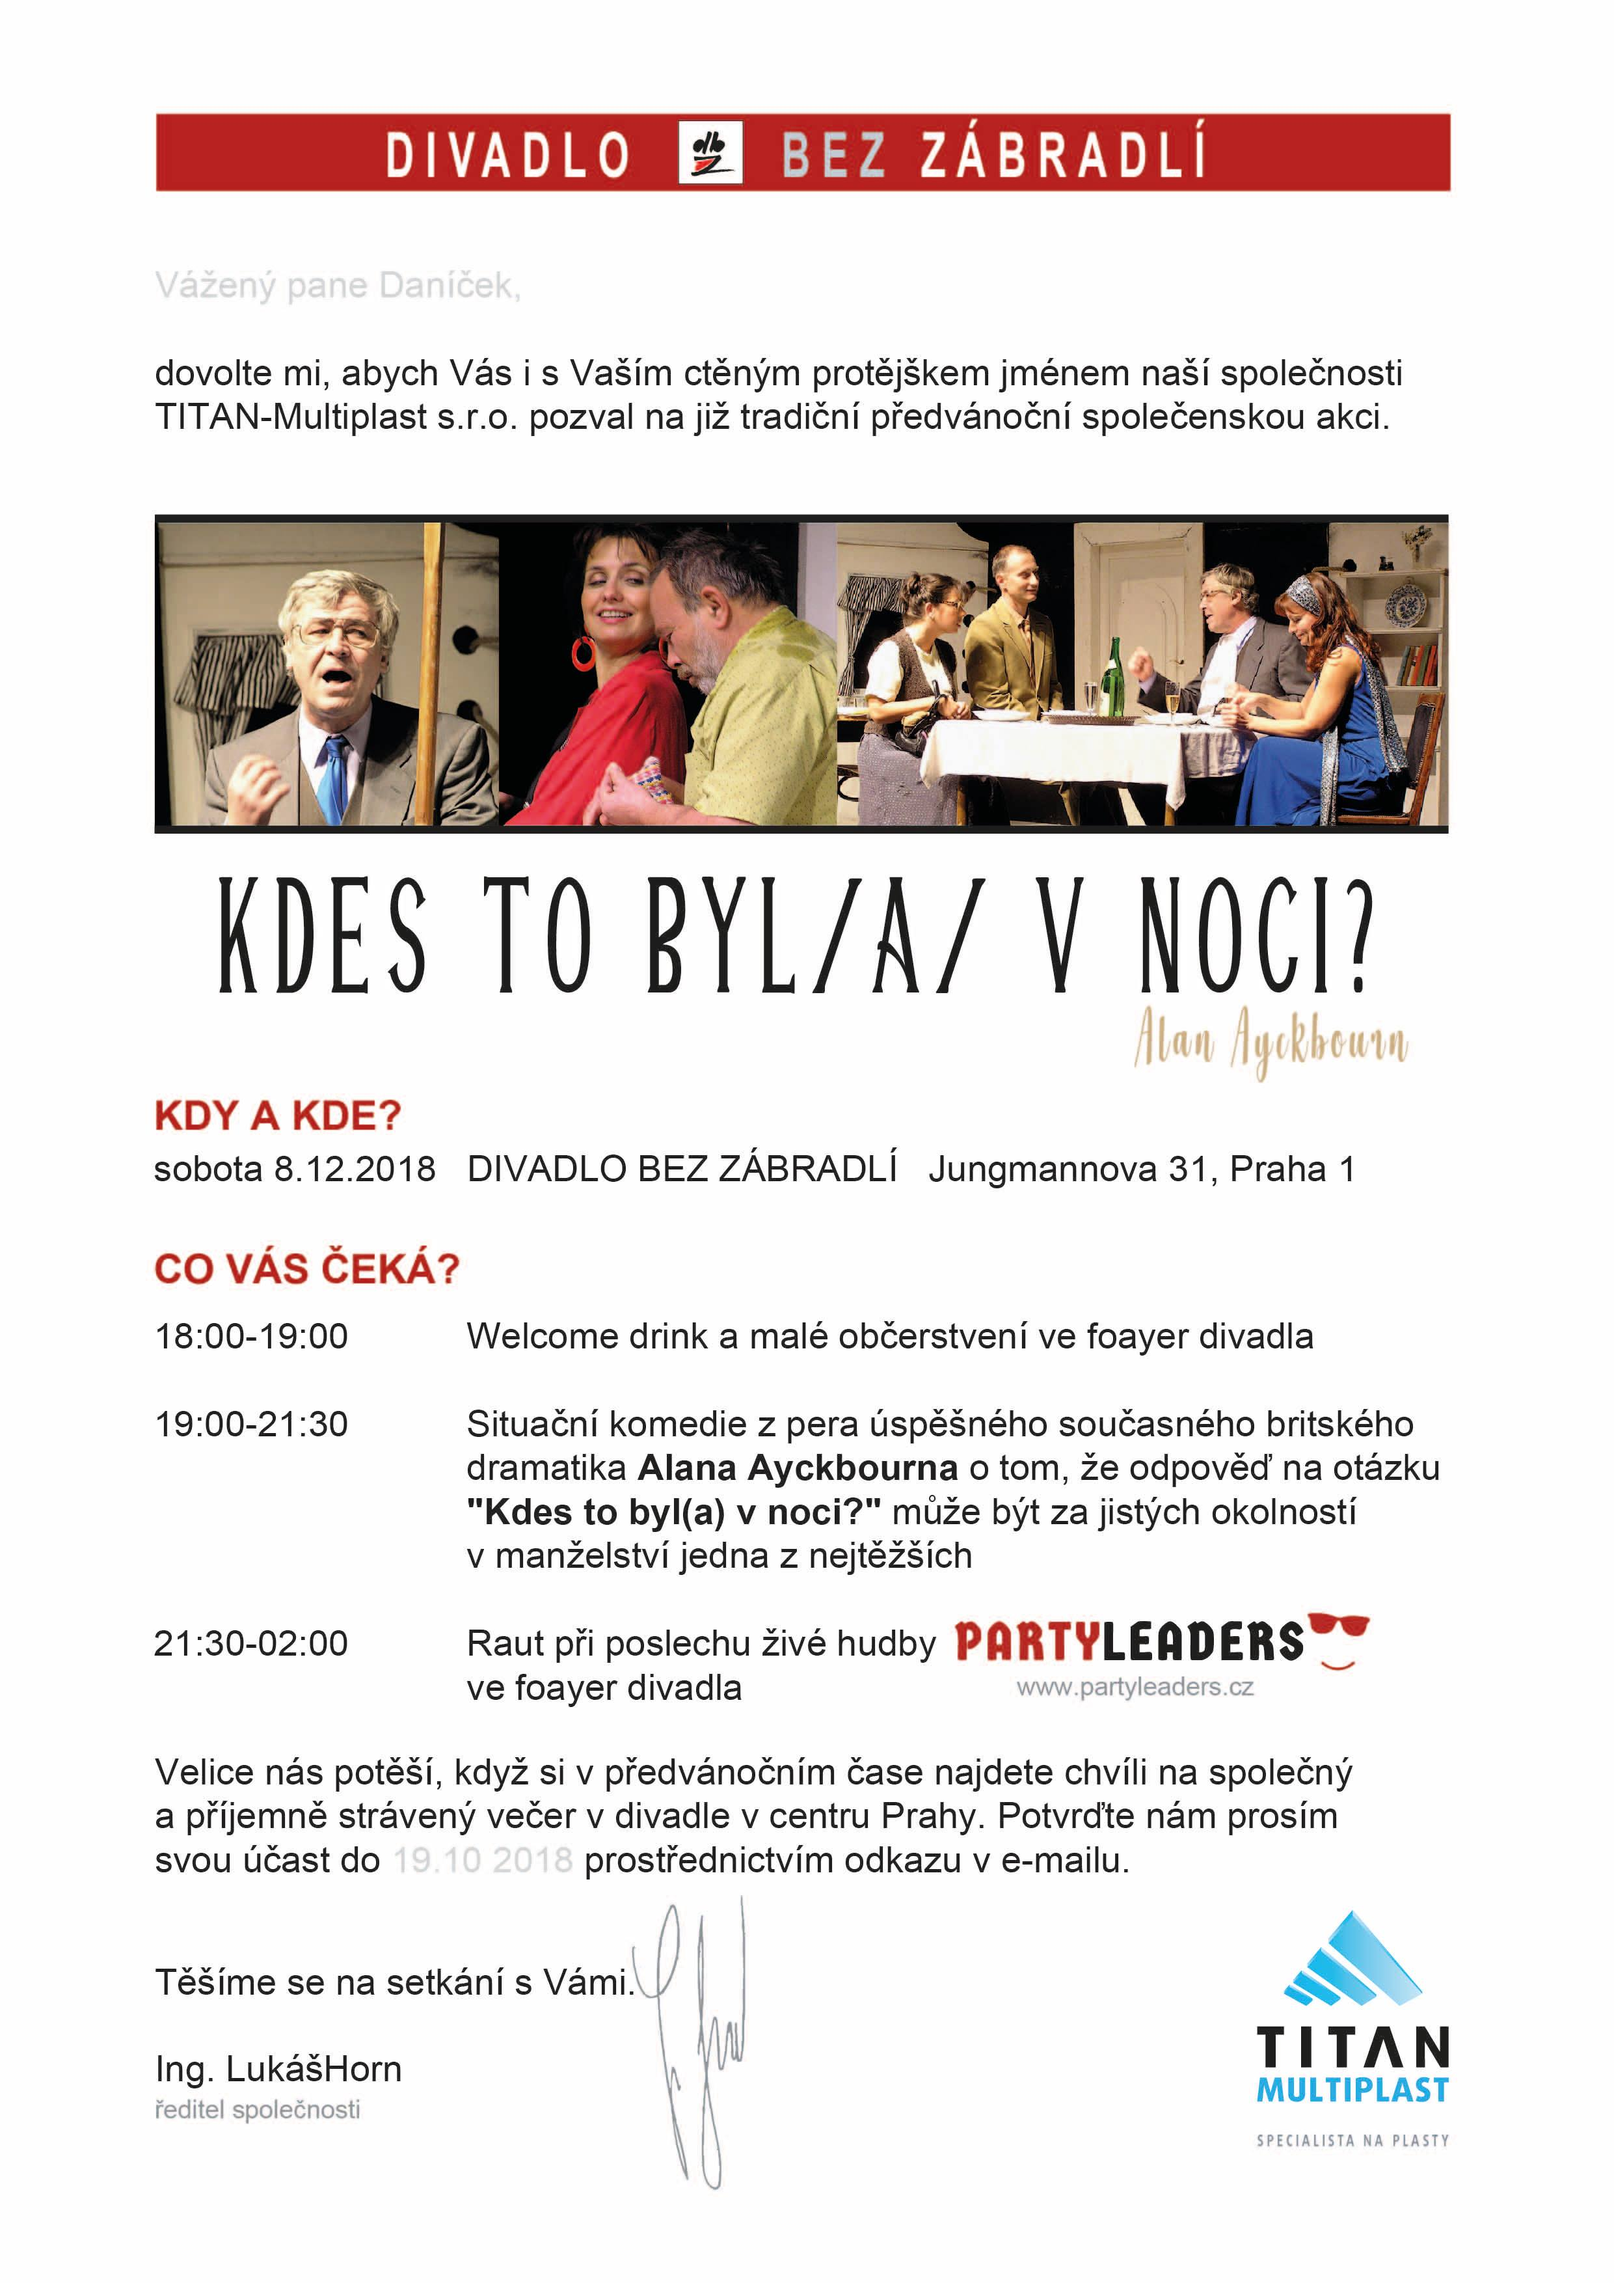
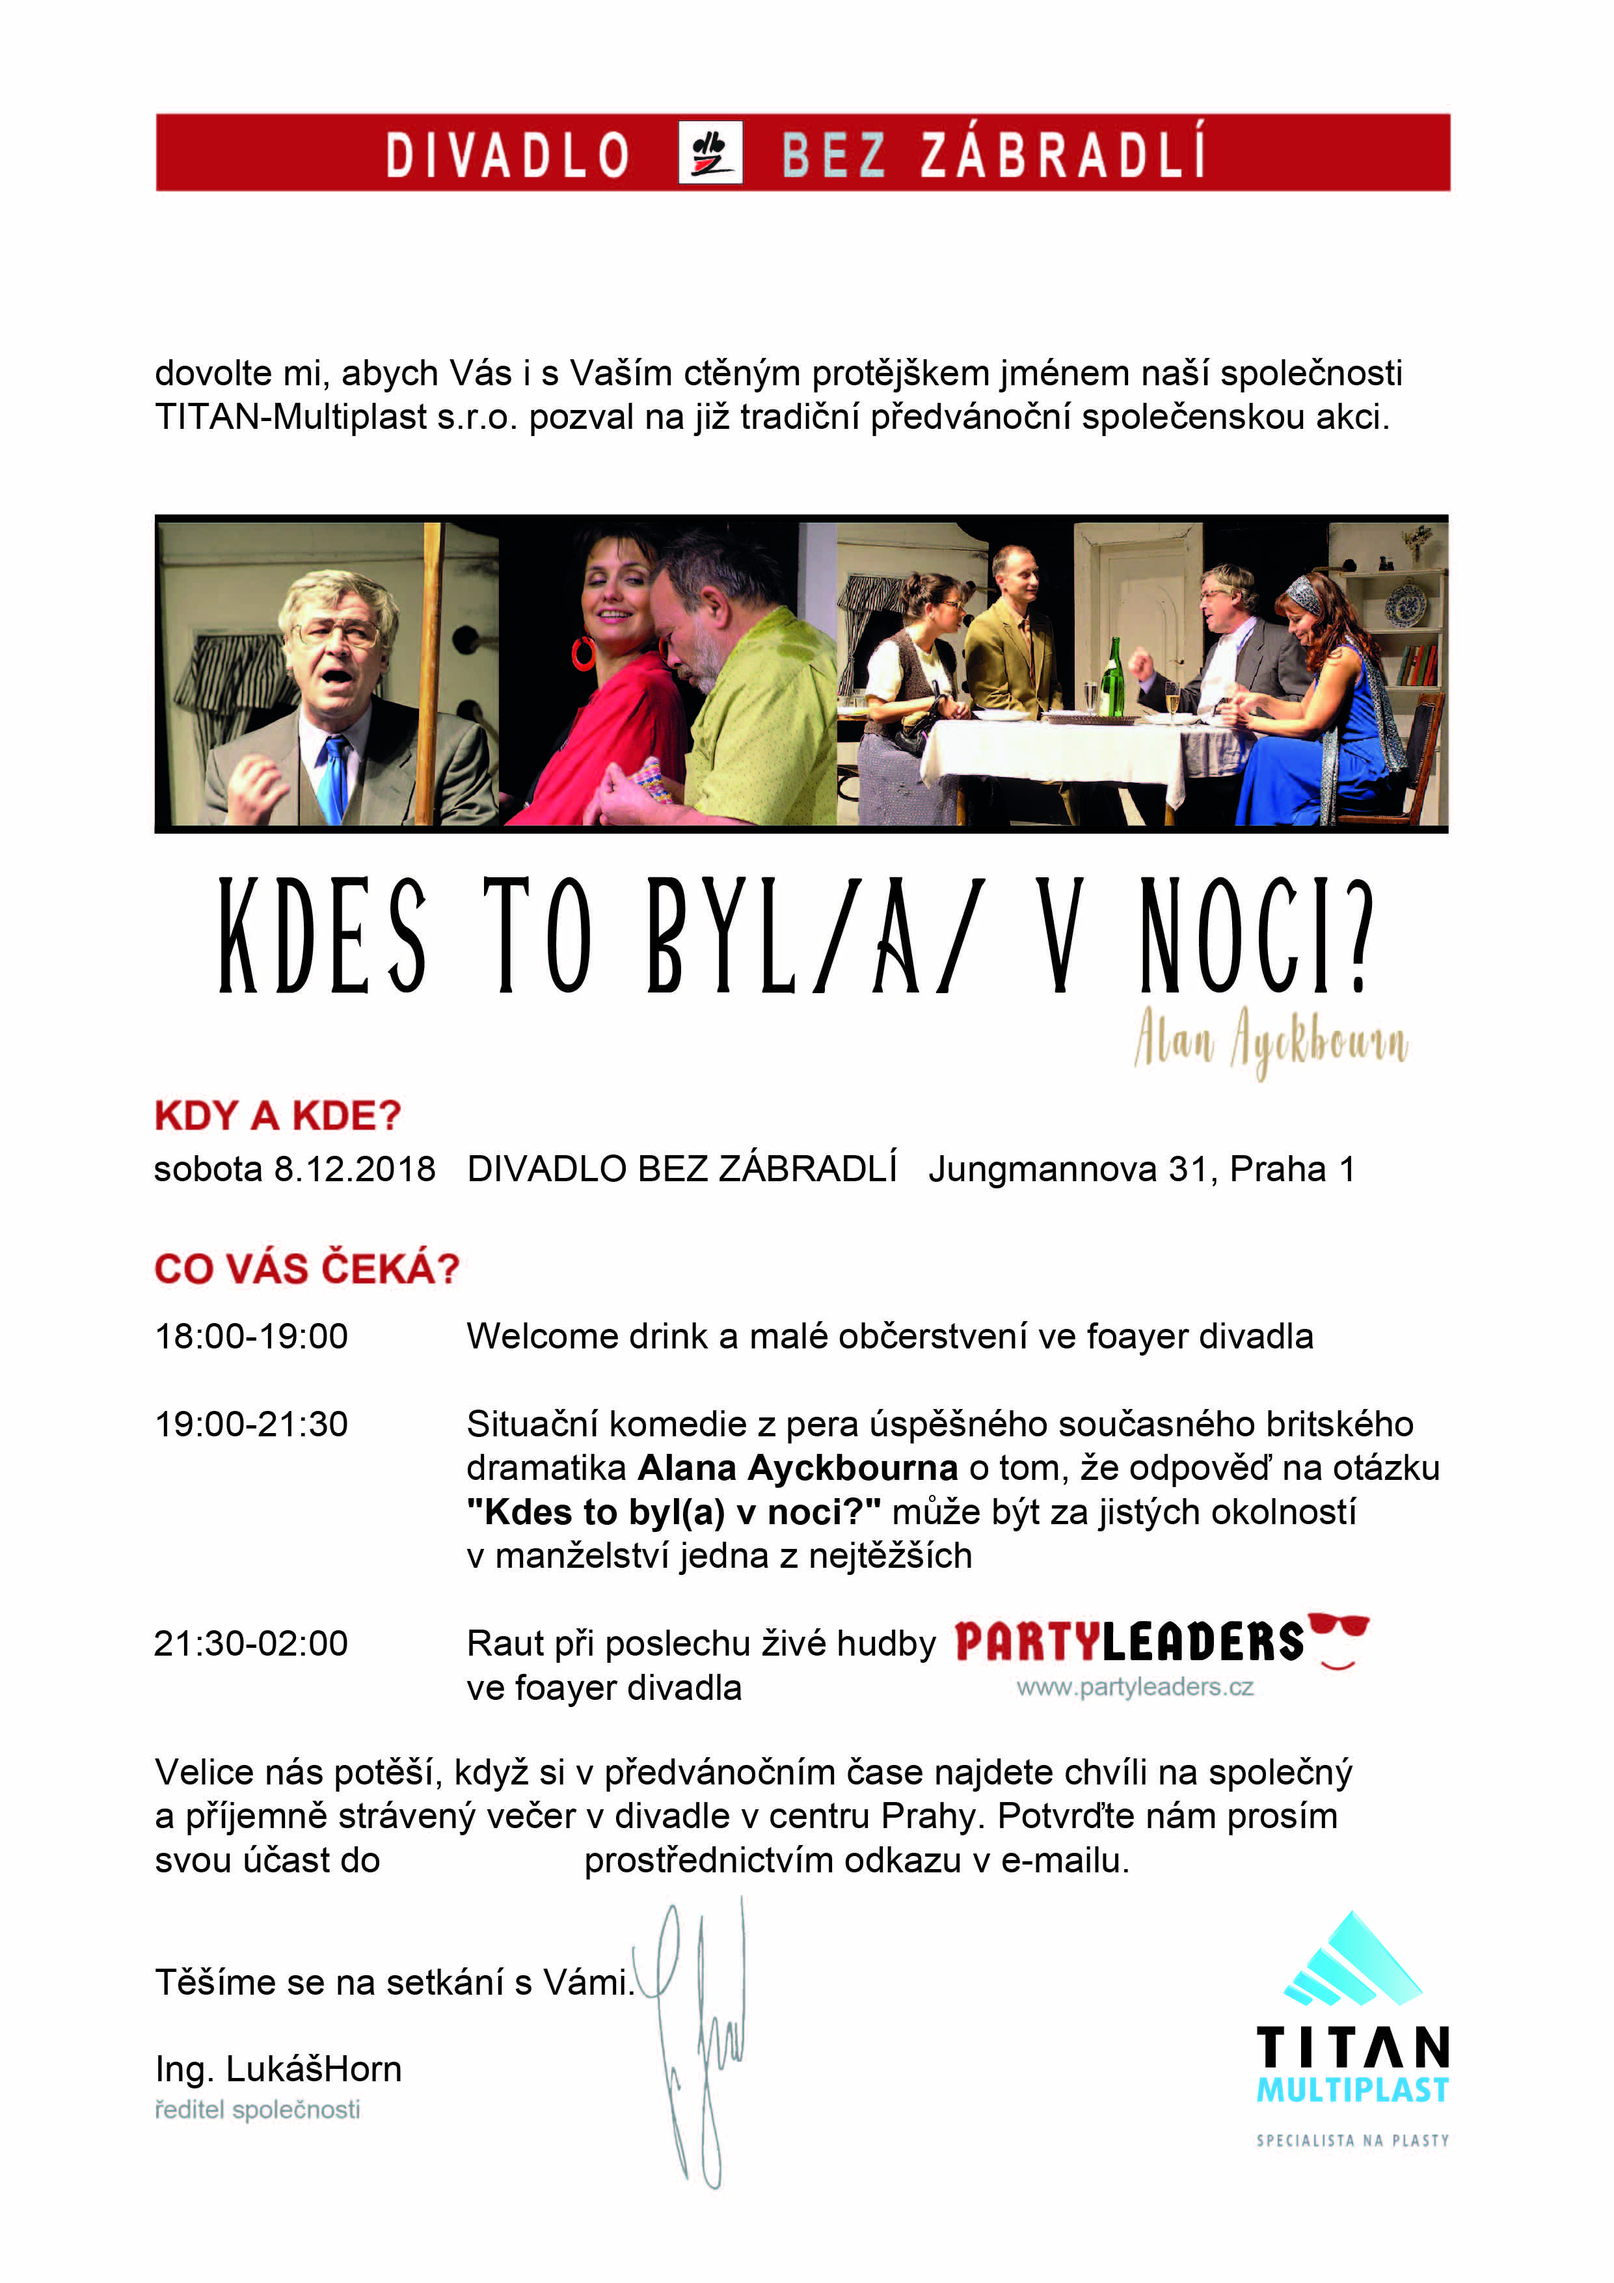
Add english email and attachment Change font in generating PDFs (wrong representation of Czech characters)

diff --git a/app/utils/PDFExport/PDFExport.php b/app/utils/PDFExport/PDFExport.php
@@ -2,33 +2,12 @@
 
 namespace Utils\PDFExport;
 
-use app\entities\Cerberus;
+
 use app\entities\Customer;
-use app\entities\Game;
-use app\entities\Harmonogram;
-use app\entities\Infiltrator;
-use app\entities\Mafia;
-use app\entities\Participant;
-use app\entities\Station;
-use app\entities\Team;
-use app\entities\User;
-use DB\CerberusRepository;
-use DB\GameRepository;
-use DB\HarmonogramRepository;
-use DB\InfiltratorRepository;
 use DB\InvitationsRepository;
-use DB\MafiaRepository;
-use DB\ParticipantRepository;
-use DB\StationRepository;
-use DB\TeamRepository;
-use DB\UserRepository;
 use Nette;
 use Nette\Utils\Strings;
 use TCPDF;
-use Utils\Cerberus\CerberusGenerator;
-use Utils\Enums\CerberusEnum;
-use Utils\Enums\GamesEnum;
-
 /**
  * Class for generating PDFs
  *
@@ -50,7 +29,7 @@ class PDFExport
         $pdf->Write(13.5, $text);
 
         $pdf->Ln(190);
-        $pdf->Write(13.5, "                          19. 10. 2018");
+        $pdf->Write(13.5, "                           $customer->reply_deadline");
         $pdf->Output(__INVITATIONS_DIR__."/" . date("Y") . "/" . $customer->id . ".pdf", "F");
     }
 
@@ -70,6 +49,8 @@ class PDFExport
         $pdf->SetAutoPageBreak(true, 10);
 
         $pdf->setImageScale(PDF_IMAGE_SCALE_RATIO);
+        $pdf->SetFont("DeJaVuSans",'', 11.5, true);
+
         if ($addPage) {
             $pdf->AddPage();
 
@@ -78,8 +59,9 @@ class PDFExport
             }
 
             $pdf->Ln(5);
-
-            $pdf->SetFont("courier", '', 13.5);
+            //$pdf->SetFont('courier','', 13.5);
+            //$pdf->setFontSubsetting(true);
+            //$pdf->addFont(__FONTS_DIR__ . "arial.ttf", 'TrueTypeUnicode', 32);
         }
 
         return $pdf;

diff --git a/app/components/Invitations/InvitationsGridComponent/InvitationsGridComponent.php b/app/components/Invitations/InvitationsGridComponent/InvitationsGridComponent.php
@@ -80,8 +80,7 @@ class InvitationsGridComponent extends BaseGridComponent
         $grid->addColumnText("note", "Poznámka");
         $grid->addColumnText("is_sent", "Odesláno")->setReplacement($is_sent)->setFilterSelect($is_sent);
         $grid->addColumnText("is_answered", "Odpověď")->setReplacement($is_answered)->setFilterSelect($is_answered);
-        $grid->addColumnDateTime("reply_deadline", "Termín odpovědi")
-            ->setFormat('Y-m-d')
+        $grid->addColumnText("reply_deadline", "Termín odpovědi")
             ->setEditableCallback(function($id, $value) {
                 $this->invitationsRepository->updateCustomerReplyDeadline($id, $value);
             });
@@ -112,7 +111,10 @@ class InvitationsGridComponent extends BaseGridComponent
             $template = parent::createTemplate();
             $template->customer = $customer;
 
-            $template->setFile(__MAIL_DIR__ . '/Generate/invitation.latte');
+            if ($customer->language == 'en')
+                $template->setFile(__MAIL_DIR__ . '/Generate/invitation_en.latte');
+            else
+                $template->setFile(__MAIL_DIR__ . '/Generate/invitation.latte');
 
             $mail->setHtmlBody($template);
 

diff --git a/app/components/Invitations/InvitationAnswerComponent/InvitationAnswerComponent.php b/app/components/Invitations/InvitationAnswerComponent/InvitationAnswerComponent.php
@@ -48,8 +48,8 @@ class InvitationAnswerComponent extends BaseGridComponent
 
         $form = new Form();
 
-        $form->addSelect('ticket_count', 'Účast a počet vstupenek', $invitation_count)
-            ->setPrompt('Vyberte z nabídky');
+        $form->addRadioList('ticket_count', 'Vyberte', $invitation_count);
+            //->setPrompt('Vyberte z nabídky');
 
         $form->addTextArea('note', 'Poznámka', 40, 5);
            // ->addRule(Form::FILLED, 'Zadejte popis.')

diff --git a/app/bootstrap.php b/app/bootstrap.php
@@ -16,6 +16,7 @@ $configurator->createRobotLoader()
 
 define('__MAIL_DIR__', __DIR__ . '/templates/');
 define('__CACHE_DIR__', __DIR__ . '/../temp/cache/');
+define('__FONTS_DIR__', __DIR__ . '/../files/fonts/');
 define('__INVITATIONS_DIR__', __DIR__ . '/../files/invitations/');
 define('__INVITATION_BACKGROUNDS_DIR__', __DIR__ . '/../files/invitationBackgrounds/');
 

diff --git a/app/entities/Customer.php b/app/entities/Customer.php
@@ -51,4 +51,7 @@ class Customer extends ActiveRow
 
     /* @var string addressing*/
     public $addressing;
+
+    /* @var string reply_deadline*/
+    public $reply_deadline;
 }
